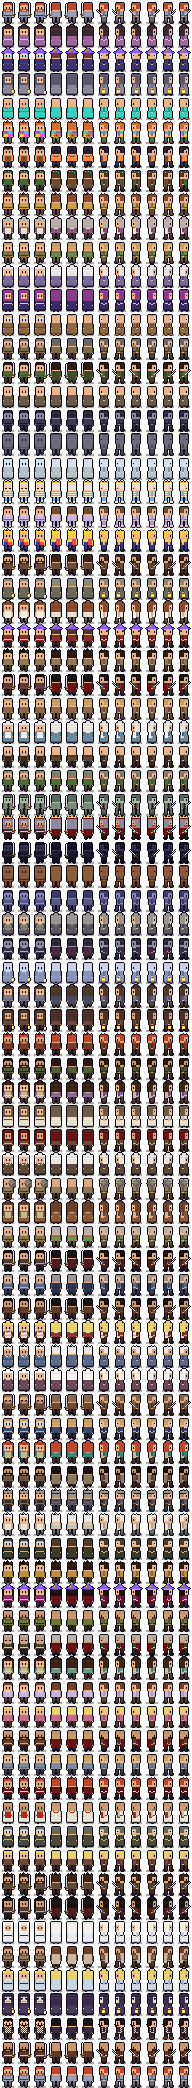
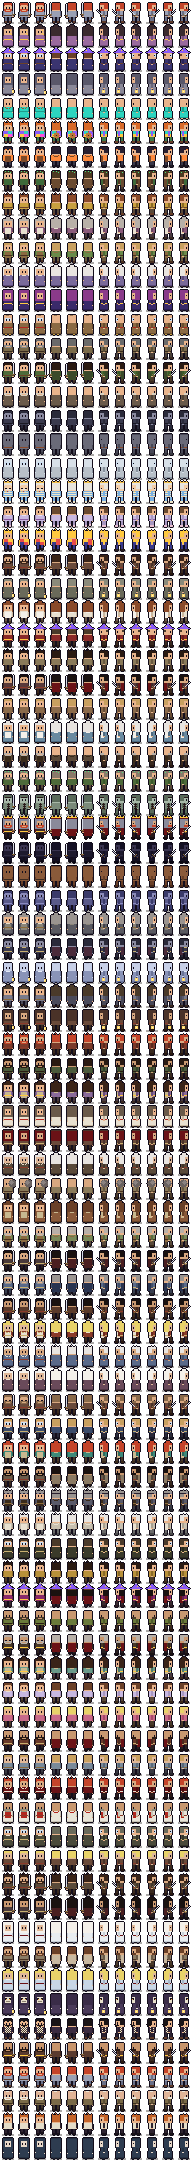
Catch the game up to Episode 10, and Episode 11: the pothole, one for each cheek
The prisoners as posted in Episode 10: Old Mott (twenty life sentences for not saying bless you), Nails (one
ice cube, one life sentence) and Silas Seen (left the king on read, fifty), each with their own walker. Three
steps into the Maze Ward a pothole drops you, once, outside Silas Seen's cell; Gary can be asked for the keys.
The episode script gets the short-form template (SHORT: faster text, quick holds and walks, no end card) and
rebuilds Episode 10 from the posted video; Episode 11 is new.

Claude-Session: https://claude.ai/code/session_01M3Peeuj4v63JAjidnU8Moq

diff --git a/src/app/(tabs)/world.tsx b/src/app/(tabs)/world.tsx
@@ -161,6 +161,9 @@ import {
   CELL_DOOR,
   ESCORT_LINES,
   GARY_STARTLED,
+  FELL_IN,
+  POTHOLE,
+  POTHOLE_LANDING,
   brannocBolts,
   escortIn,
   escortStand,
@@ -446,7 +449,15 @@ function World({
   const [ways] = useState(() =>
     bossOn
       ? []
-      : EXITS.filter((e) => e.from === start.map.id && e.walk && e.to !== null && standing(e.needs, xpNow).met),
+      : EXITS.filter(
+          (e) =>
+            e.from === start.map.id &&
+            e.walk &&
+            e.to !== null &&
+            standing(e.needs, xpNow).met &&
+            // the pothole only gives way once
+            !(e.id === 'maze-pothole' && (xpNow.flags ?? []).includes(FELL_IN)),
+        ),
   );
   const bossNpc = start.map.npcs.find((n) => n.after?.flag === start.map.boss?.flag);
   // The room is fixed for this visit (doing a job re-enters it), so these read the flags on arrival.
@@ -1420,7 +1431,16 @@ function World({
             );
           },
         });
-      else if (map.id === 'kingdom-dungeon' && w.flags.includes(JAILED) && !w.flags.includes(JAIL_WOKE)) {
+      else if (
+        map.id === 'kingdom-dungeon' &&
+        tx === POTHOLE.landing.x &&
+        Math.floor(start.y / TILE) === POTHOLE.landing.y &&
+        !w.flags.includes(FELL_IN)
+      ) {
+        // Down through the Maze Ward's floor: on your butt outside Silas Seen's cell (dungeon.ts).
+        w.setFlag(FELL_IN);
+        setDialogue({ lines: POTHOLE_LANDING });
+      } else if (map.id === 'kingdom-dungeon' && w.flags.includes(JAILED) && !w.flags.includes(JAIL_WOKE)) {
         w.setFlag(JAIL_WOKE);
         // Knocked out by Himothy: you come to already in the cell, no guards, no march.
         if (w.flags.includes(KNOCKED_OUT)) {

diff --git a/src/world/dungeon.ts b/src/world/dungeon.ts
@@ -256,3 +256,20 @@ export const holeLines = (asBrannoc: boolean) =>
   asBrannoc
     ? ['(What is that shiny thing?)', "(It's a hidden passage!)"]
     : ['(What is that shiny thing?)', "(It's a hole in the wall. It is exactly Brannoc-shaped.)"];
+
+// ---- The pothole (author, Episode 11, Oct 6, 2026): three steps into the Maze Ward the floor gives way, and you
+// drop back into the Deep Cells, on your butt, right outside Silas Seen's cell. Once only: after that it's floor.
+
+/** You've fallen through it: it's just floor now. */
+export const FELL_IN = 'maze-pothole-fell';
+/** The Maze Ward's pothole tile, and where it drops you (in front of the third cell). */
+export const POTHOLE = { tile: 'h', landing: { x: 18, y: 6 } };
+
+/** Landing. */
+export const POTHOLE_LANDING = [
+  'THUD.',
+  'You land on your butt, right outside the last cell.',
+  "SILAS SEEN: The king would've given you two life sentences.",
+  'SILAS SEEN: One for each cheek.',
+  'Old Mott and Nails laugh. Silas Seen does not. Silas Seen is above laughing.',
+];

diff --git a/src/world/progress.ts b/src/world/progress.ts
@@ -1163,6 +1163,18 @@ export const EXITS: Exit[] = [
     back: true,
     walk: true,
   },
+  // The pothole (dungeon.ts POTHOLE): three steps in, the floor gives way and drops you back into the cells.
+  // Once only: after you've fallen (FELL_IN), the game leaves it out and it's just floor.
+  {
+    id: 'maze-pothole',
+    from: 'dungeon-mazes',
+    tile: 'h',
+    label: 'The floor',
+    to: { map: 'kingdom-dungeon', x: 18, y: 6, facing: 'up' },
+    needs: OPEN,
+    back: true,
+    walk: true,
+  },
   {
     id: 'mazes-ring',
     from: 'dungeon-mazes',

diff --git a/src/world/walkers.ts b/src/world/walkers.ts
@@ -95,6 +95,9 @@ export const WALKER_ROWS = {
   felix: 84,
   warden: 85,
   brannocbare: 86,
+  oldmott: 87,
+  nails: 88,
+  silasseen: 89,
 } as const;
 
 export type WalkerId = keyof typeof WALKER_ROWS;

diff --git a/EPISODES.md b/EPISODES.md
@@ -34,14 +34,25 @@ don't follow the crime (twenty, then *one*, then fifty), and the last one gets a
 ## Where the series stands
 
 - **Posted:** Episodes up to 10.
-- **In the repo (`scripts/episode-video.mjs`):** Episodes 2–8 and two BONUS episodes, in the older,
-  longer style (title card off, 4.5 s end card). Episode 8 ends "NEXT TIME: GARY".
-- **Lost with the old cloud sessions (never pushed):** Episode 9 (Gary), Episode 10's code, the new
-  prisoner jokes and Silas Seen in `src/world/maps/kingdom-dungeon.json`, the faster typing, the
-  quicker walk, the close camera, dropping the end card, and the outlines for Episodes 11–14.
-  The video above is the record; rebuild from it.
-- **To do:** rebuild the template into the episode script; Episode 11, then 12, to build a buffer;
-  then rewrite the old 11–14 ideas to the template, funny first.
+- **Episode 9 (Gary)** was made in a cloud session that was lost before it was pushed. Its code is gone;
+  the posted video is the only record.
+- **Episode 10** is rebuilt from the posted video (`node scripts/episode-video.mjs 10`). Its timing matches the
+  post to within a few tenths of a second, and the game now matches it: the three prisoners' sprites, lines and
+  order (Old Mott, Nails, Silas Seen) are in `src/world/maps/kingdom-dungeon.json`. The prisoners' menu answers
+  weren't shown in the video, so they were rewritten.
+- **Episode 11, "One for Each Cheek"** (`node scripts/episode-video.mjs 11`): you try the Maze Ward, the floor
+  gives way three steps in, you land on your butt outside Silas Seen's cell, "The king would've given you two life
+  sentences. One for each cheek.", Old Mott and Nails laugh, you run to Gary ("Zzz."), and pick *Can I have the
+  keys?* The episode ends on the pick, before his answer. In the game: the pothole (`POTHOLE` in
+  `src/world/dungeon.ts`, tile `h` in the Maze Ward, once only) and Gary's keys question.
+- **Next:** Episode 12 opens on Gary's answer to the keys question. Then rewrite the old 12–14 ideas to fit the
+  template, with the jokes first.
+
+## In the episode script
+
+Every template episode spreads `SHORT` (20 ms a letter, half pauses, quick holds, a 190 px/s walk, no title or end
+card). Per step: `punch` (seconds a beat's last line holds), `zoom` (cut closer or back out), `drop` (sink through
+the floor), `scene.gap` (a quicker cut), `laugh … together`.
 
 ## So nothing gets lost again
 
